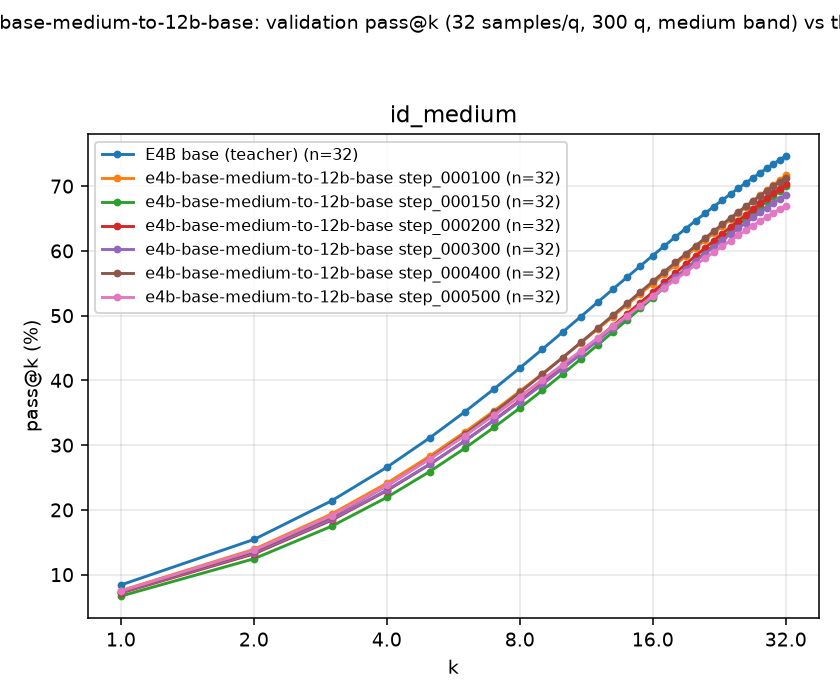
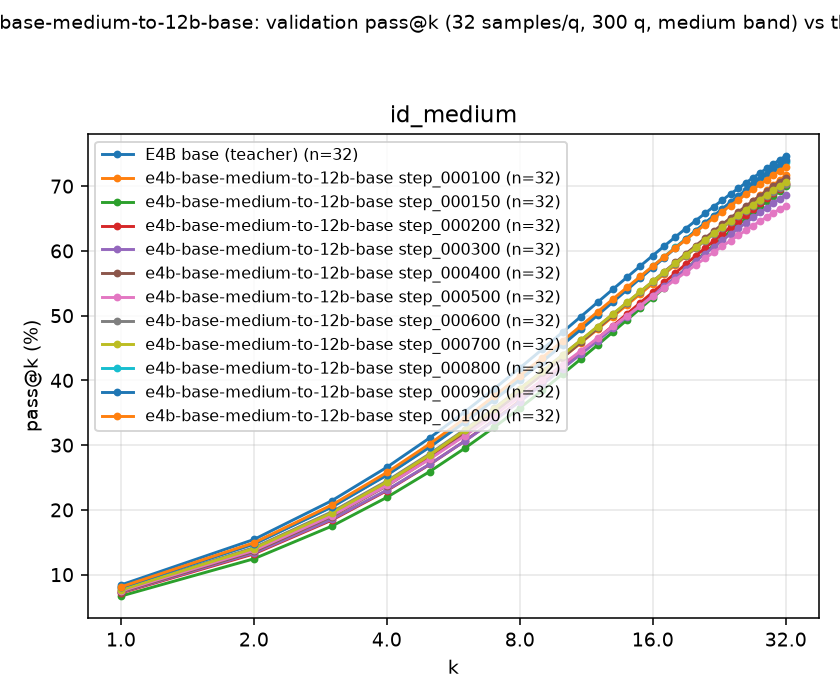
E4B-base control: full 12B curve (steps 100-1000) + x32 base references; figures

Changed region(s): [[0.1238, 0.21, 0.9595, 0.72], [0.2167, 0.72, 0.4024, 0.81], [0.1238, 0.81, 0.2167, 0.87]]

diff --git a/rl-distill-scripts/DISTILLATION_EXPERIMENTS.md b/rl-distill-scripts/DISTILLATION_EXPERIMENTS.md
@@ -620,15 +620,15 @@ before the run-file starts). Students land at
 export (§9, jobs `g4e4b-pk-med-{12b,26b}-s<step>`) and the plot loop refreshes `figures/passk_*_val32.png` from S3. Hard-band jobs: not
 launched yet.
 
-**Per-checkpoint pass@k — id_medium validation, 32 samples/question (first results, 2026-09-08):** the 26B-A4B student's
+**Per-checkpoint pass@k — id_medium validation, 32 samples/question (all rows ×32; updated 2026-09-10 06:50Z):** the 26B-A4B student's
 `step_000250` (pushed 16:06Z) was evaluated by ScaleTrain job `g4e4b-pk-med-26b-s0250` (job_dag3ah2lrg1g07lkf0p0; tp 2 on
 2 H100s; 35 min wall incl. venv build + 52 GB materialize) and is already within ~1.5 points of the E4B teacher at every k
 (figure `figures/passk_e4b-base-medium-to-26b-base_val32.png`):
 
 | pass@k (%) | 1 | 2 | 4 | 8 | 16 | 32 | mean@32 | maj@32 |
 |---|---|---|---|---|---|---|---|---|
-| 12B base, no distillation (16 samples/q) | 14.1 | 24.7 | 39.5 | 56.3 | 72.0 | – | 14.1 | 29.3 |
-| 26B-A4B base, no distillation (16 samples/q) | 23.8 | 39.4 | 57.8 | 74.2 | 86.3 | – | 23.8 | 50.7 |
+| 12B base, no distillation | 14.1 | 24.7 | 39.6 | 57.0 | 73.4 | 86.3 | 14.1 | 38.7 |
+| 26B-A4B base, no distillation | 23.7 | 38.9 | 57.1 | 74.1 | 86.5 | 93.3 | 23.7 | 56.7 |
 | E4B base teacher | 8.4 | 15.4 | 26.6 | 41.9 | 59.3 | 74.7 | 8.4 | 20.3 |
 | 12B ← E4B-base medium, step 100 | 7.5 | 13.9 | 24.1 | 38.3 | 55.0 | 71.7 | 7.5 | 19.7 |
 | 12B ← E4B-base medium, step 150 | 6.7 | 12.4 | 21.9 | 35.7 | 52.8 | 70.0 | 6.7 | 15.3 |
@@ -637,8 +637,15 @@ launched yet.
 | 12B ← E4B-base medium, step 400 | 7.4 | 13.6 | 23.7 | 38.1 | 55.3 | 71.3 | 7.3 | 19.0 |
 | 12B ← E4B-base medium, step 500 | 7.5 | 13.8 | 23.8 | 37.5 | 53.0 | 67.0 | 7.5 | 21.0 |
 | 12B ← E4B-base medium, step 600 | 7.7 | 14.2 | 24.5 | 38.7 | 55.2 | 70.3 | 7.7 | 18.7 |
+| 12B ← E4B-base medium, step 700 | 7.6 | 14.0 | 24.3 | 38.7 | 55.3 | 70.7 | 7.6 | 19.0 |
+| 12B ← E4B-base medium, step 800 | 8.0 | 14.7 | 25.4 | 40.3 | 57.6 | 73.7 | 8.0 | 18.7 |
+| 12B ← E4B-base medium, step 900 | 8.0 | 14.7 | 25.4 | 40.1 | 57.4 | 74.0 | 8.0 | 17.7 |
+| 12B ← E4B-base medium, step 1000 | 8.1 | 14.9 | 25.8 | 40.7 | 57.6 | 73.0 | 8.1 | 21.7 |
 | 26B-A4B ← E4B-base medium, step 100 | 7.4 | 13.6 | 23.8 | 38.3 | 55.1 | 70.3 | 7.4 | 16.7 |
-| 26B-A4B ← E4B-base medium, step 250 (earlier attempt) | 8.1 | 14.8 | 25.5 | 40.4 | 57.7 | 73.3 | 8.1 | 18.3 |
+| 26B-A4B ← E4B-base medium, step 200 | 8.1 | 14.9 | 25.7 | 40.6 | 57.9 | 72.7 | 8.1 | 20.3 |
+| 26B-A4B ← E4B-base medium, step 300 | 7.6 | 13.9 | 24.1 | 38.1 | 54.1 | 70.0 | 7.6 | 19.3 |
+| 26B-A4B ← E4B-base medium, step 400 | 7.7 | 14.2 | 25.0 | 40.2 | 58.1 | 74.0 | 7.7 | 20.7 |
+| 26B-A4B ← E4B-base medium, step 500 | 7.8 | 14.5 | 25.1 | 40.0 | 57.2 | 73.7 | 7.8 | 17.7 |
 
 Untrained bases on the same band from §8 (16 samples/q, so the curve stops at k=16): 12B pass@1/2/4/8/16 =
 14.1 / 24.7 / 39.5 / 56.3 / 72.0 (mean 14.1, maj@16 29.3); 26B-A4B mean 23.8 / pass@16 86.3. Both bases are being re-run with the
